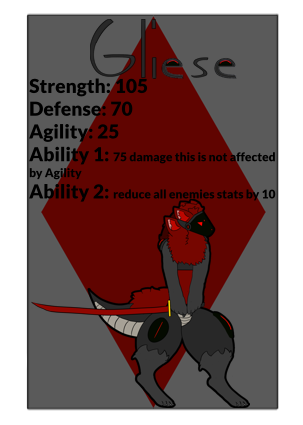
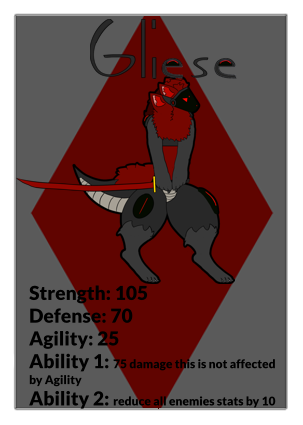
ui and cards are moslty done

diff --git a/GameBoard.java b/GameBoard.java
@@ -34,24 +34,24 @@ public class GameBoard {
             new JLabel(),
     };
     static final int[][] INDEX_POSITIONS = {
-            {190,425},
-            {555,425},
-            {957,425},
-            {1350,425},
-            {1745,425},
-            {555,925},
-            {957,925},
-            {1340,925},
+            {170,100},
+            {555,100},
+            {960,100},
+            {1350,100},
+            {1740,100},
+            {555,580},
+            {960,580},
+            {1340,580},
     };
     static final int[][] CARD_POSITIONS = {
-            {40,0},
-            {410,0},
-            {820,0},
-            {1200,0},
-            {1600,0},
-            {410,500},
-            {820,500},
-            {1200,500},
+            {30,120},
+            {410,120},
+            {820,120},
+            {1200,120},
+            {1590,120},
+            {410,600},
+            {820,600},
+            {1200,600},
     };
     static final JTextField INPUT = new JTextField(10);
     static final JFrame SYSTEM = new JFrame("");
@@ -72,12 +72,12 @@ public class GameBoard {
         SYSTEM.add(TEXT1);
         TEXT1.setFont(new Font("Arial", Font.BOLD, 20));
         TEXT1.setHorizontalAlignment(0);
-        TEXT1.setBounds(0,1000, 1920, 20);
+        TEXT1.setBounds(0,30, 1920, 20);
 
         SYSTEM.add(TEXT2);
         TEXT2.setFont(new Font("Arial", Font.BOLD, 20));
         TEXT2.setHorizontalAlignment(0);
-        TEXT2.setBounds(0,1020, 1920, 20);
+        TEXT2.setBounds(0,50, 1920, 20);
 
 
         //card system setup
@@ -98,7 +98,7 @@ public class GameBoard {
         for(int i=0; i<INFO_PANNEL.length; i++) {
             SYSTEM.add(INFO_PANNEL[i]);
             INFO_PANNEL[i].setFont(new Font("Arial", Font.BOLD, 20));
-            INFO_PANNEL[i].setBounds(1600, CARD_POSITIONS[i][1], 200,20);
+            INFO_PANNEL[i].setBounds(1600, 600+(i*20), 200,20);
         }
         //final setup
         INPUT.setEditable(false);
@@ -190,6 +190,10 @@ public class GameBoard {
     public void addScore(int add) {
         this.score += add;
         INFO_PANNEL[0].setText("Score: " + score);
+    }
+    public void setFloor(int floor) {
+        this.currentFloor = floor;
+        INFO_PANNEL[0].setText("Score: " + currentFloor);
     }
 
     public ArrayList<Card> resolveLootEffects(ArrayList<Card> loot) {
